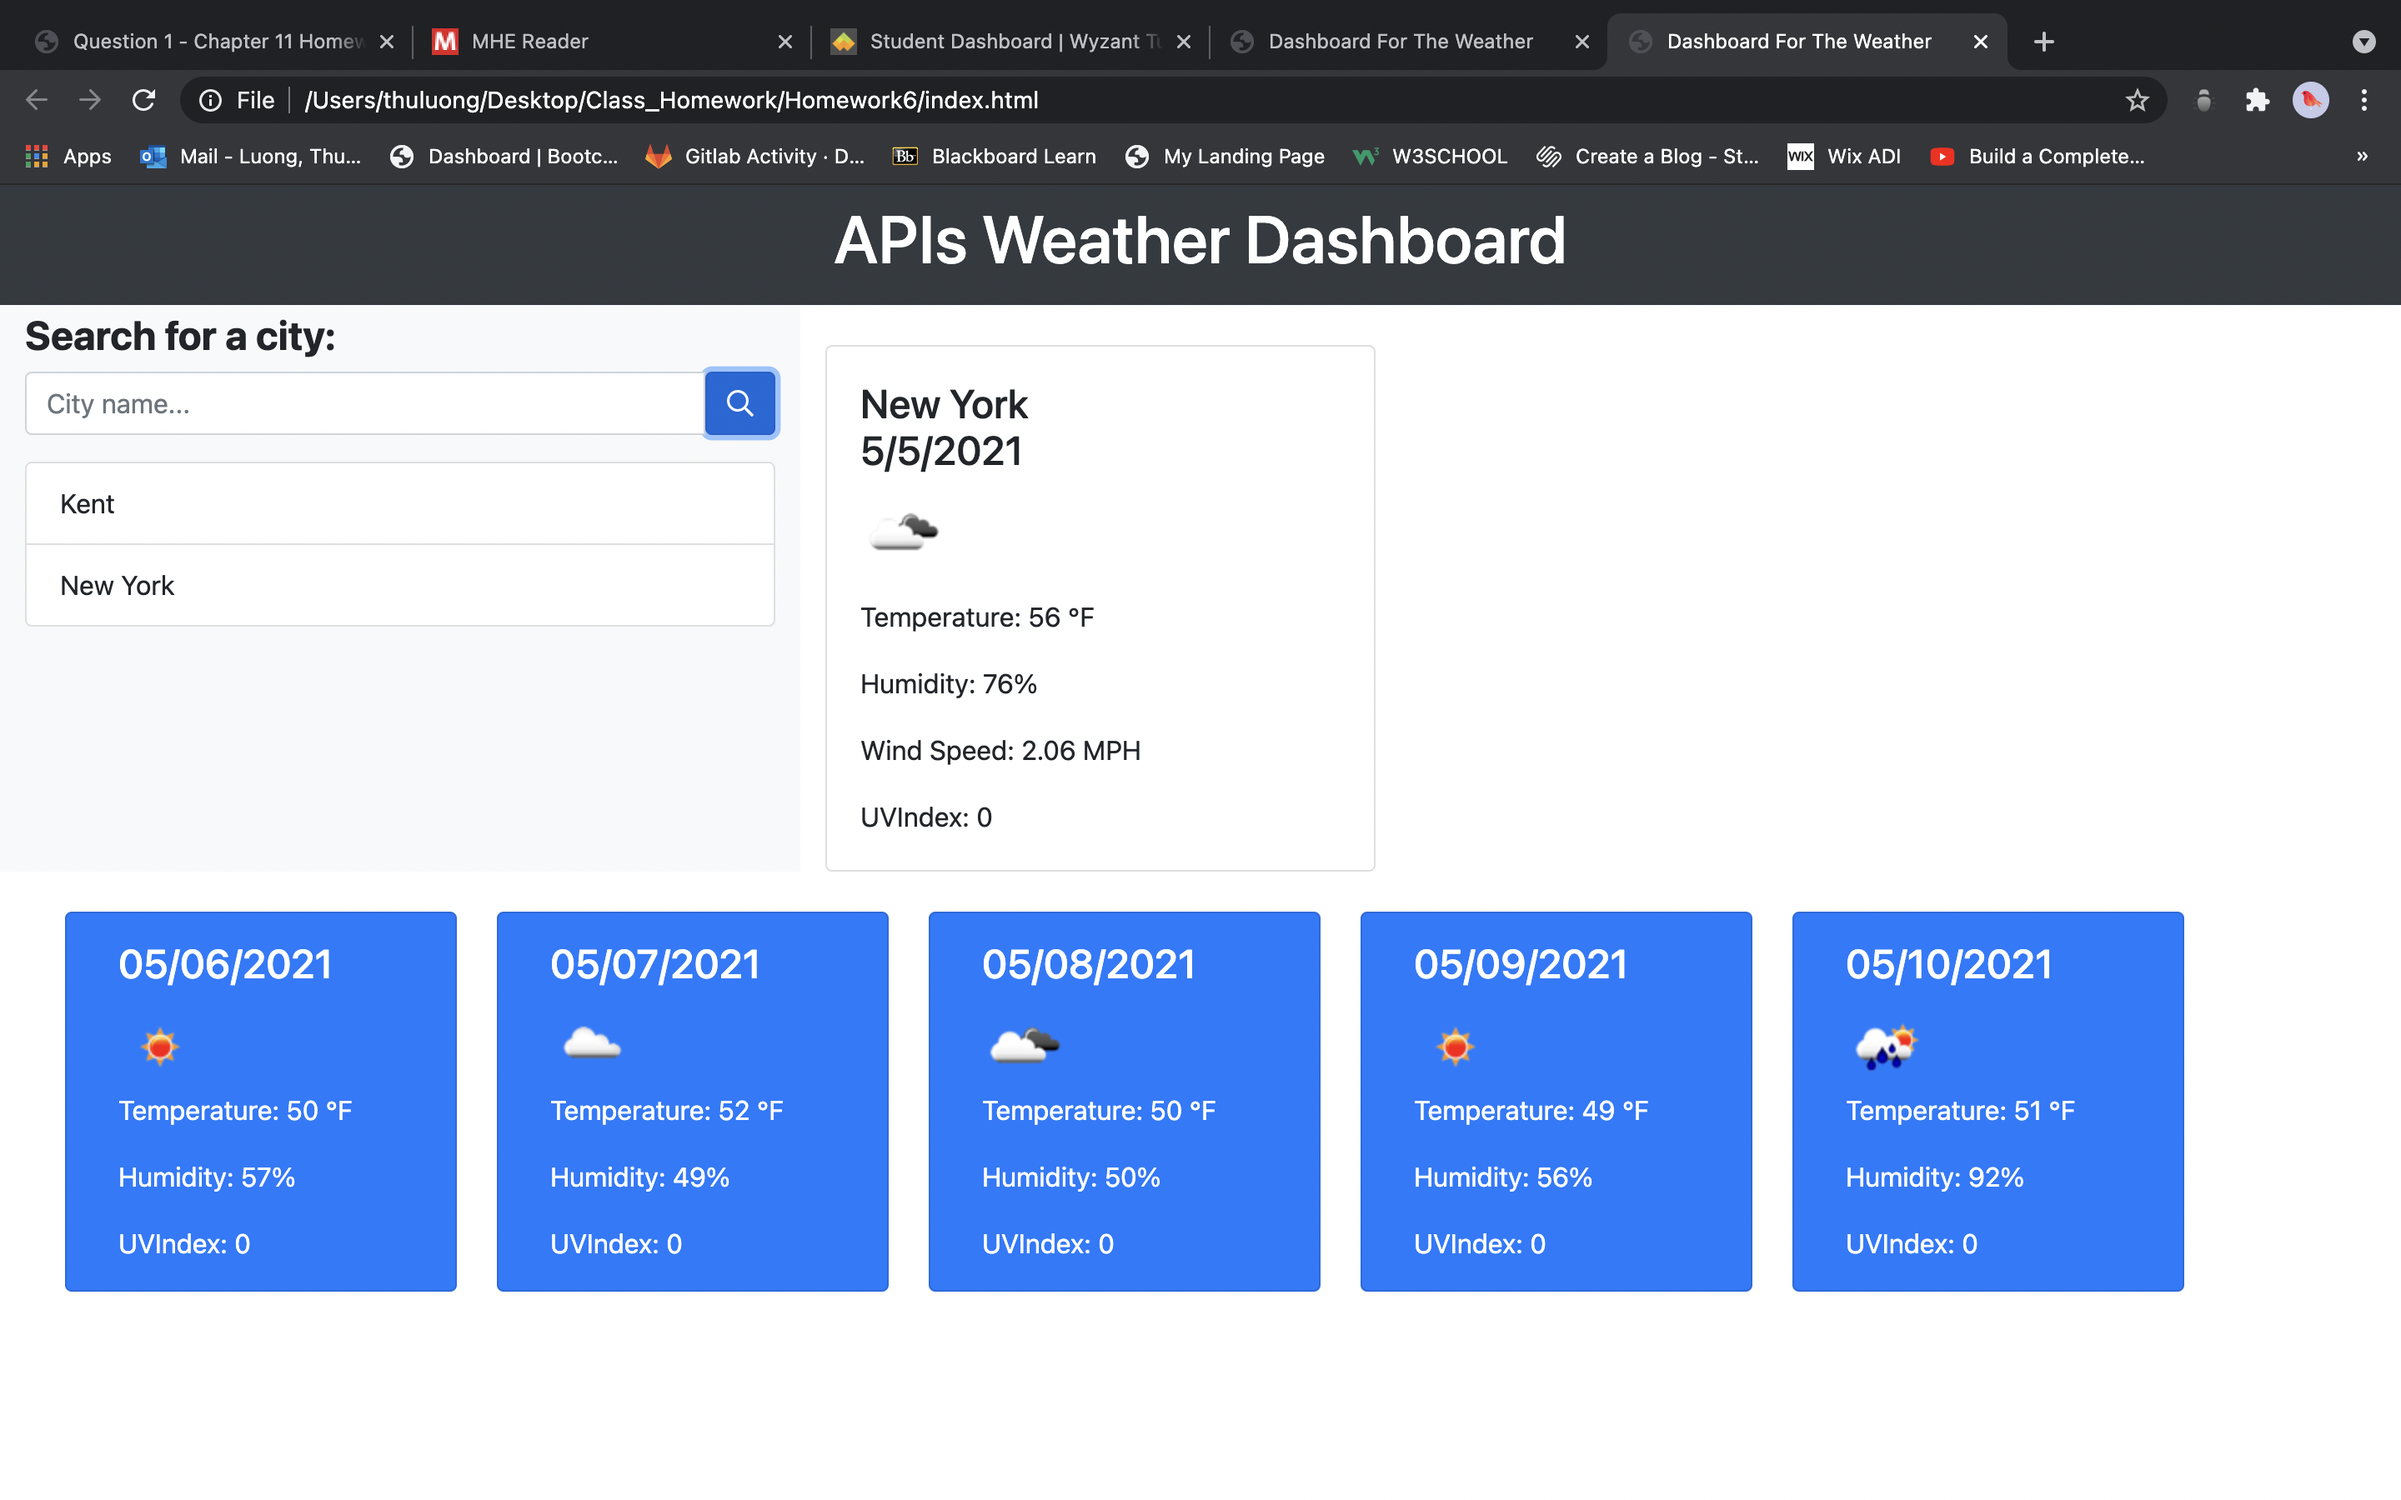
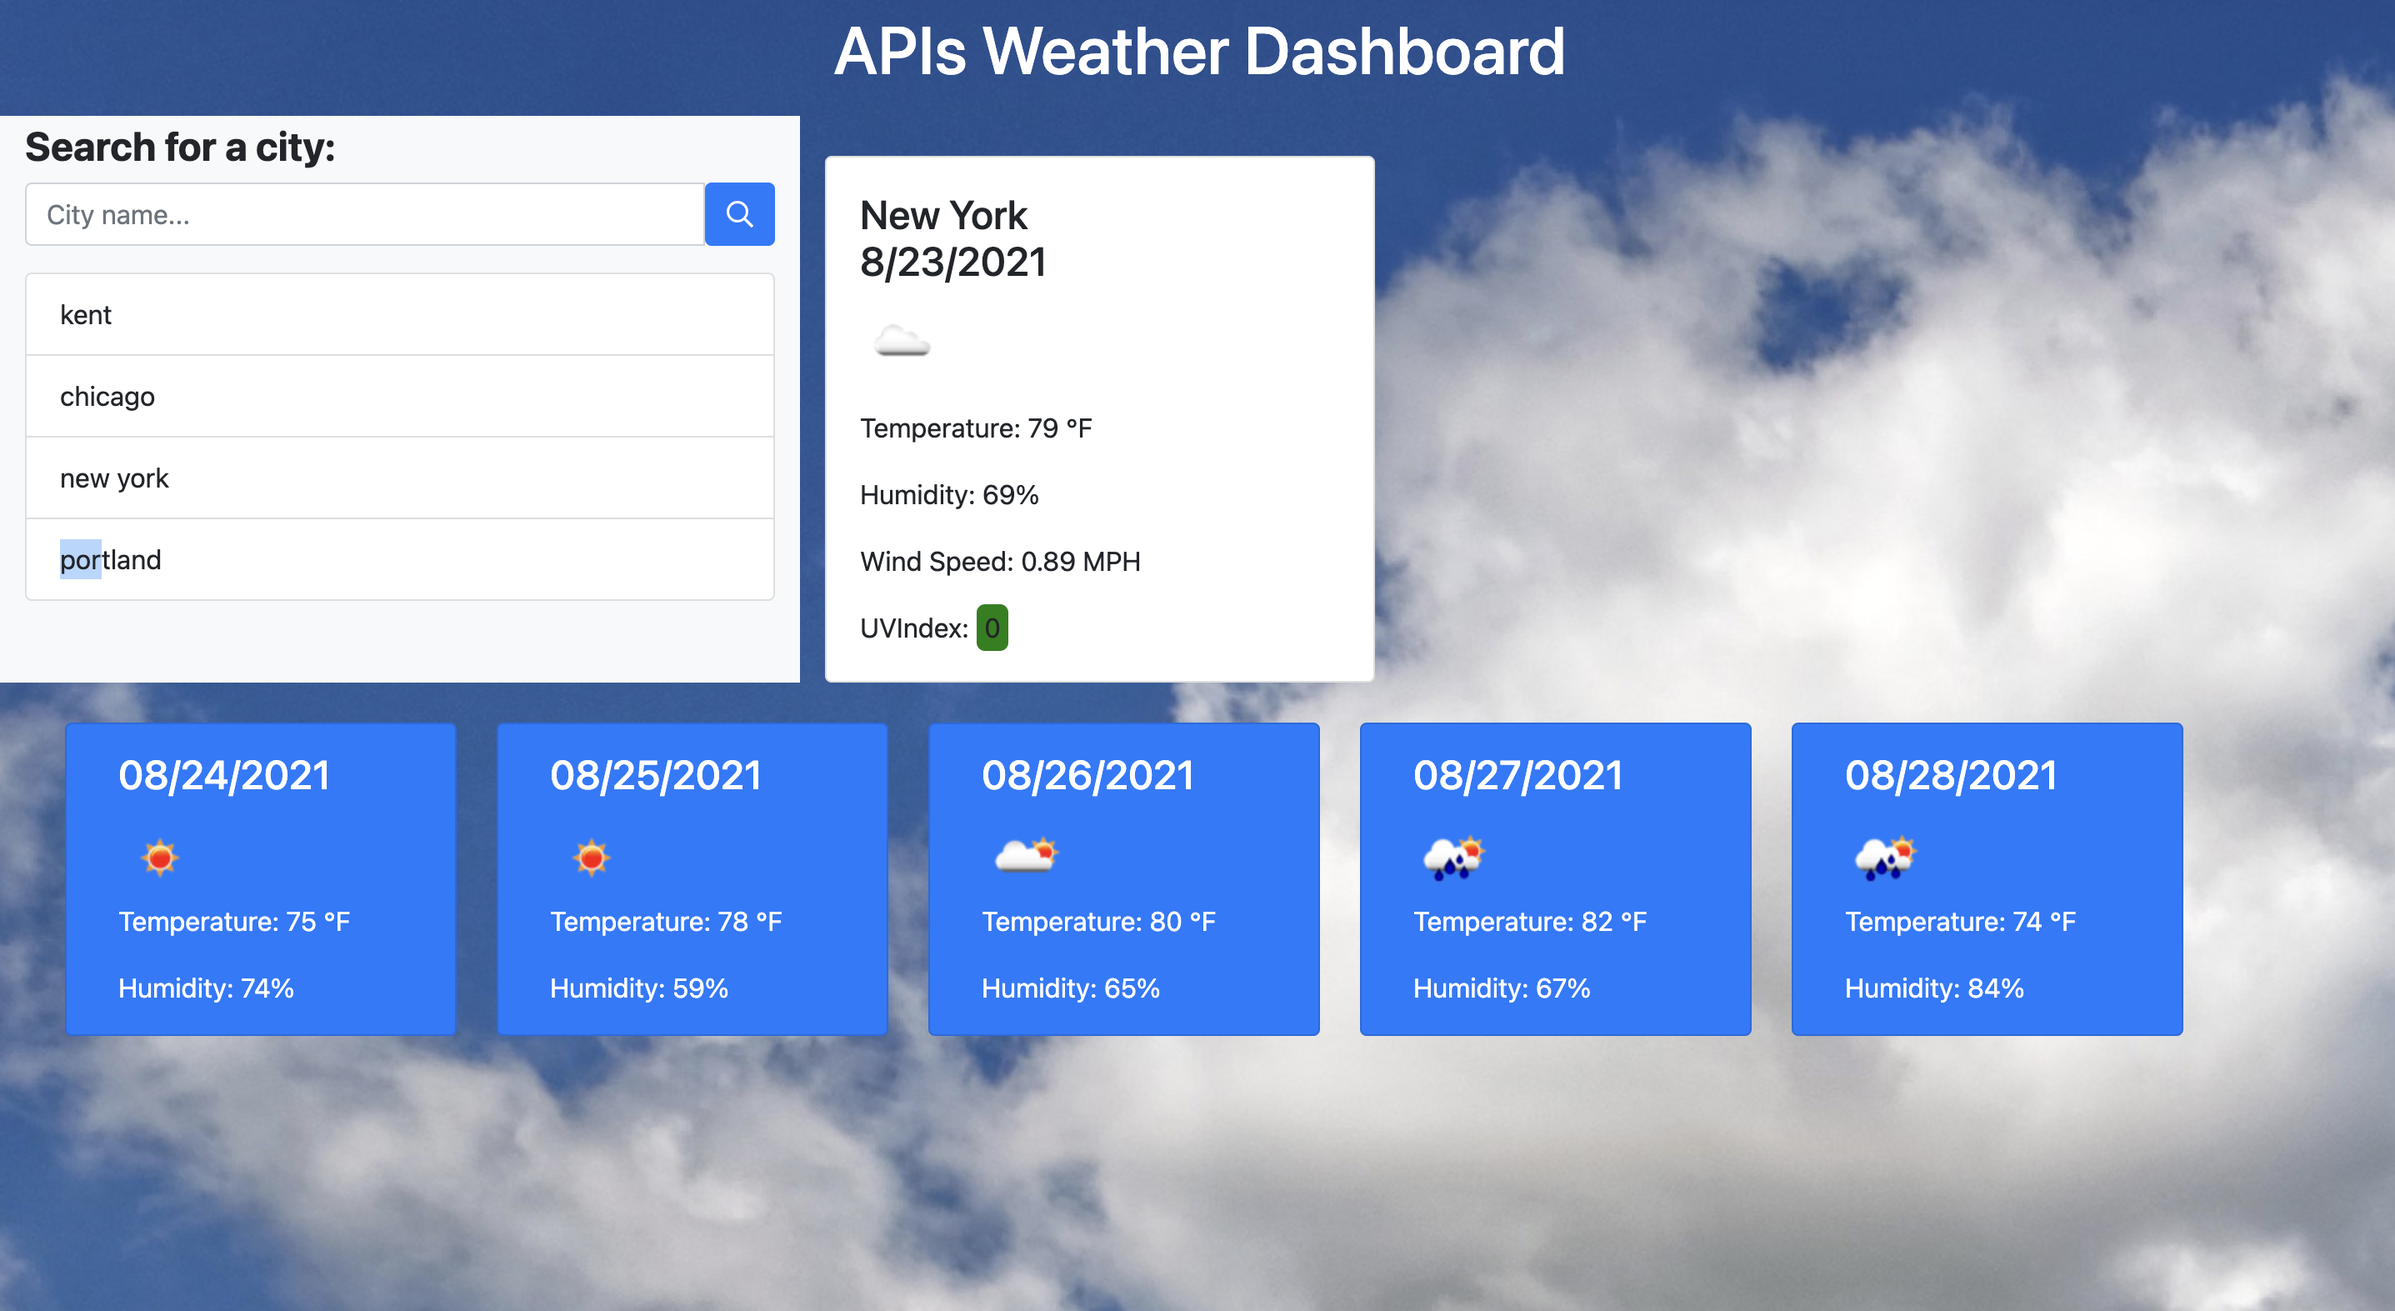
changed images for README file

diff --git a/compressdist/index.js b/compressdist/index.js
@@ -1,0 +1,1 @@
+var uv,searchHistory=[];const apiKey="&appid=afaa8eea1769b4359fd8e07b2efcefbd";let date=new Date;function getCityWeather(t){var a=t;$("#forecastH0","#forecastH1","#forecastH2","#forecastH3","#forecastH4").addClass("show");t="https://api.openweathermap.org/data/2.5/weather?q="+a+apiKey;$.ajax({url:t,method:"GET"}).then(function(t){console.log(t),console.log(t.name),console.log(t.weather[0].icon);var e=1.8*(t.main.temp-273.15)+32;console.log(Math.floor(e)),console.log(t.main.humidity),console.log(t.wind.speed),getCurrentConditions(t),getCurrentForecast(a),searchHistory.includes(a)||(makeList(a),searchHistory.push(a),console.log(searchHistory),saveSearchHistory())})}function makeList(t){var e=t;let a=$("<li>").addClass("list-group-item").text(t);a.on("click",function(){getCityWeather(e)}),$(".list").append(a)}function getCurrentConditions(t){var e=1.8*(t.main.temp-273.15)+32,e=Math.floor(e);$("#currentCity").empty();const a=$("<div>").addClass("card"),r=$("<div>").addClass("card-body"),o=$("<h4>").addClass("card-title").text(t.name);var s=$("<h4>").addClass("card-title").text(date.toLocaleDateString("en-US")),n=$("<p>").addClass("card-text current-temp").text("Temperature: "+e+" °F"),c=$("<p>").addClass("card-text current-humidity").text("Humidity: "+t.main.humidity+"%"),e=$("<p>").addClass("card-text current-wind").text("Wind Speed: "+t.wind.speed+" MPH"),t=$("<img>").attr("src","https://openweathermap.org/img/w/"+t.weather[0].icon+".png");o.append(s,t),r.append(o,n,c,e),a.append(r),$("#currentCity").append(a)}function getUVindex(t,e){$.ajax({url:"https://api.openweathermap.org/data/2.5/onecall?lat="+t+"&lon="+e+apiKey,method:"GET"}).then(function(t){console.log(t),uv=t.current.uvi;const e=$("<p>").addClass("card-text current-uvindex").text("UVIndex: ");t=$("<span>").text(uv);uv<3?$(t).css("background-color","green"):uv<6?$(t).css("background-color","yellow"):uv<10?$(t).css("background-color","red"):$(t).css("background-color","purple"),e.append(t),$("#currentCity .card-body").append(e),$("#uvindex").text("test")})}function getCurrentForecast(t){$.ajax({url:"https://api.openweathermap.org/data/2.5/forecast?q="+t+apiKey,method:"GET"}).then(function(t){getUVindex(t.city.coord.lat,t.city.coord.lon),console.log(t),$("#forecast").empty();let a=t.list;console.log(a);for(let e=0;e<a.length;e++){let t=a[e].dt_txt.slice(0,10);var r=t.split("-");if(t=r[1]+"/"+r[2]+"/"+r[0],-1!==a[e].dt_txt.indexOf("12:00:00")){var o=1.8*(a[e].main.temp-273.15)+32,s=Math.floor(o);const c=$("<div>").addClass("card col-md-2 ml-4 bg-primary text-white"),i=$("<div>").addClass("card-body p-3 forecastBody");var n=$("<h4>").addClass("card-title").text(t),r=$("<p>").addClass("card-text forecastTemp").text("Temperature: "+s+" °F"),o=$("<p>").addClass("card-text forecastHumidity").text("Humidity: "+a[e].main.humidity+"%"),s=$("<img>").attr("src","https://openweathermap.org/img/w/"+a[e].weather[0].icon+".png");i.append(n,s,r,o),c.append(i),$("#forecast").append(c)}}})}function loadSearchHistory(){(searchHistory=JSON.parse(localStorage.getItem("searchHistory"))||[]).forEach(function(t){console.log(t),makeList(t)})}function saveSearchHistory(t){localStorage.setItem("searchHistory",JSON.stringify(searchHistory))}loadSearchHistory(),$("#searchTerm").keypress(function(t){13===t.keyCode&&(t.preventDefault(),$("#searchBtn").click())}),$("#searchBtn").on("click",function(){var t=$("#searchTerm").val();$("#searchTerm").val(""),getCityWeather(t)});

diff --git a/index.html b/index.html
@@ -13,7 +13,7 @@
 </head>
 
 <body>
-  <div class="bg-dark pt-2 pb-2">
+  <div class="bg-gray pt-2 pb-2">
     <div class="container">
       <h1 class="text-center text-white">APIs Weather Dashboard</h1>
     </div>
@@ -59,7 +59,7 @@
   </div>
 
   <script src="https://cdnjs.cloudflare.com/ajax/libs/jquery/3.2.1/jquery.min.js"></script>
-  <script src="./Assets/script.js"></script>
+  <script src="compressdist/index.js"></script>
 </body>
 
 </html>

diff --git a/Assets/script.js b/Assets/script.js
@@ -1,3 +1,4 @@
+
 var uv;
 var searchHistory = [];
 // store api key
@@ -198,3 +199,4 @@ function loadSearchHistory() {
 function saveSearchHistory(city) {
   localStorage.setItem("searchHistory", JSON.stringify(searchHistory));
 }
+

diff --git a/styles.css b/styles.css
@@ -10,3 +10,6 @@
 padding: 5px;
 border-radius: 5px;
 }
+body {
+    background: url(./Assets/Images/bghw6.jpeg);
+}

diff --git a/README.md b/README.md
@@ -18,12 +18,12 @@
 
 ## For the main page- Search place
 
-![main-page](/Assets/Images/main.png)
+![main-page](/Assets/Images/afterrefresh.png)
 ---
 
 ## After Searching for a place
 
-![showing-page](/Assets/Images/display.png)
+![showing-page](/Assets/Images/search.png)
 ---
 
 ## After Searching for a place
